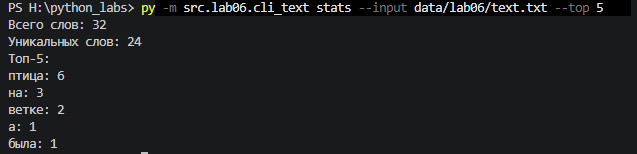
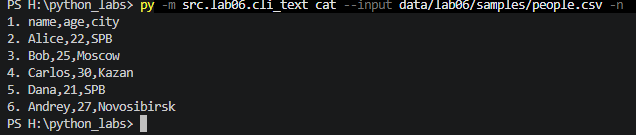
lab6

Changed region(s): [[0.0, 0.237, 0.2987, 1.0], [0.0, 0.0, 1.0, 0.2074]]

diff --git a/src/lab06/README.md b/src/lab06/README.md
@@ -156,9 +156,9 @@ python -m src.lab06.cli_convert <команда> [параметры]
 
 ---
 
-## Тест-кейс А: `bird`
+## Тест-кейс А: `cat`
 
-![](../../images/lab06/1a.png)
+![](../../images/lab06/2a.png)
 
 ## Тест-кейс B: `stats`
 **Входной файл (`data/lab06/text.txt`):**
@@ -166,7 +166,7 @@ python -m src.lab06.cli_convert <команда> [параметры]
 Птица сидела на ветке. Другая птица подлетела к ветке и тоже села на ветку. Первая птица посмотрела на вторую птицу. Птица, птица, еще одна птица! Ветка была сухой, а ветер дул сильно.
 ```
 
-![](../../images/lab06/2a.png)
+![](../../images/lab06/1a.png)
 
 ## Тест-кейс C: конвертеры
 **Команды:**
